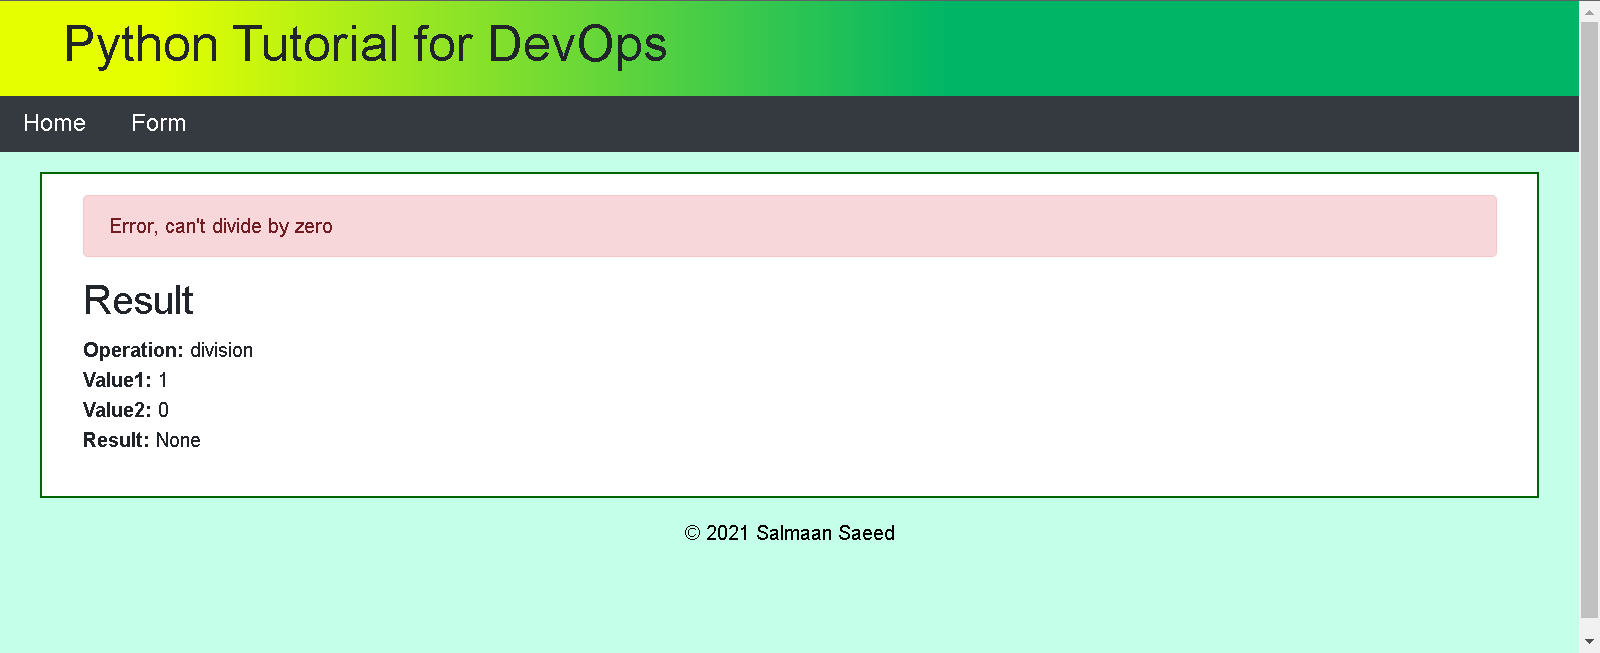
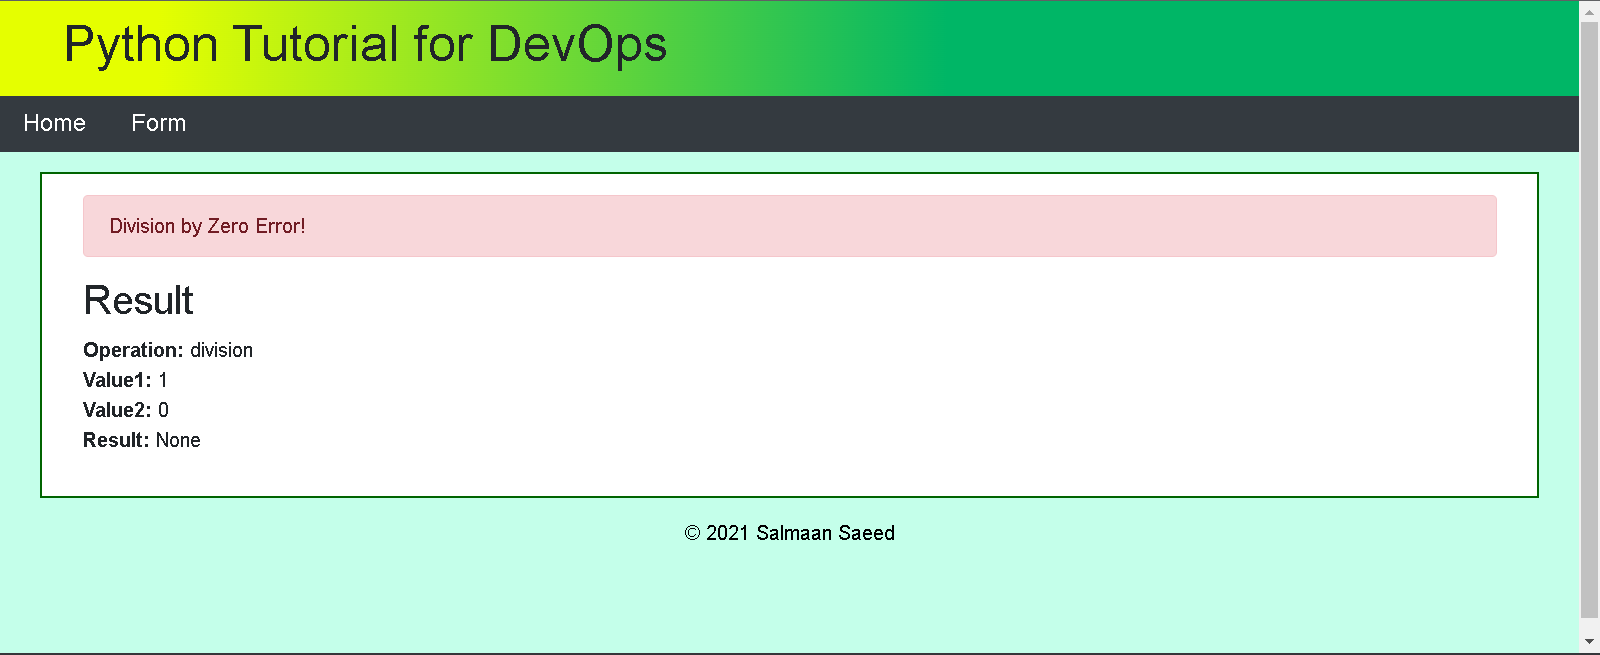
Updated the flash message output

diff --git a/app/app.py b/app/app.py
@@ -23,7 +23,7 @@ def form():
         getattr(Calculator, operation)(value1, (value2,))
         result = ""
         if Calculator.get_result_of_last_calculation_in_history() is None:
-            flash("Error, can't divide by zero", "error")
+            flash("Division by Zero Error!", "error")
             result = "None"
         else:
             result = str(Calculator.get_result_of_last_calculation_in_history())
